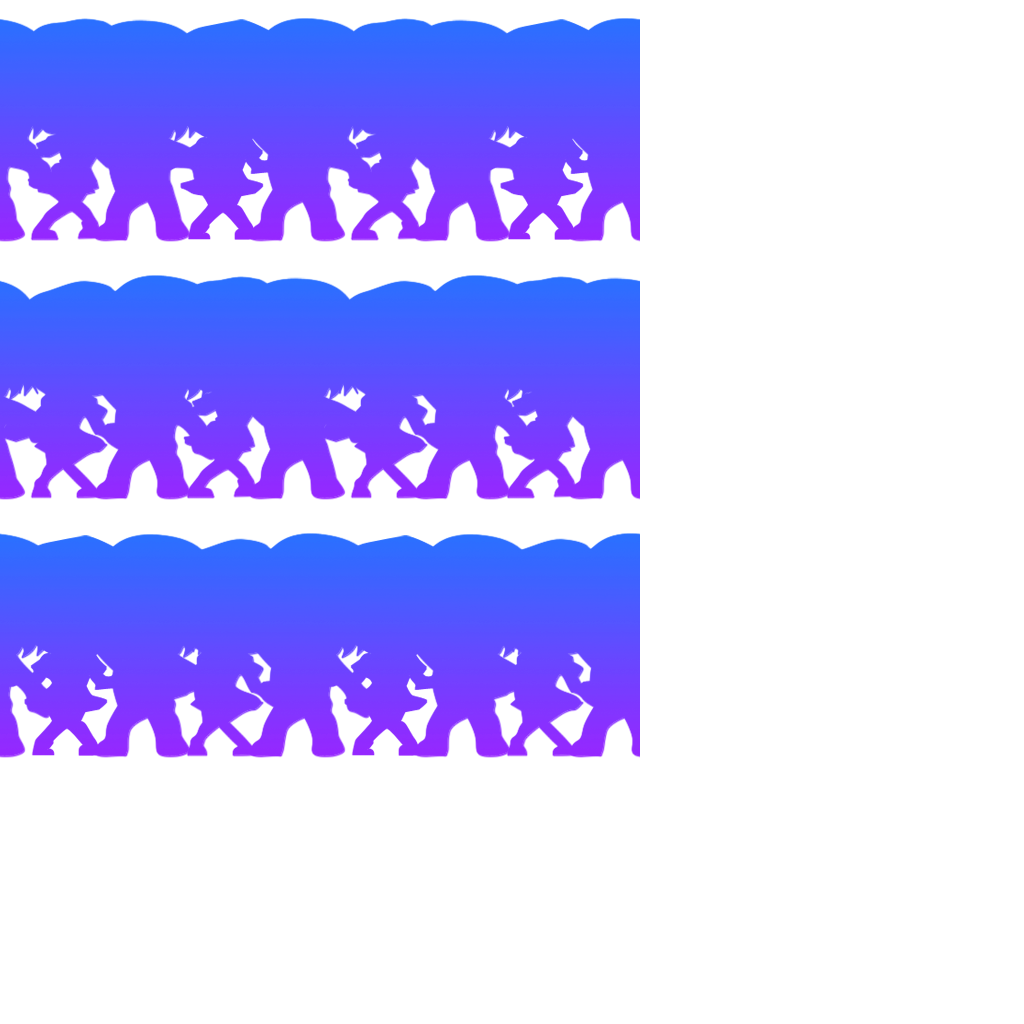
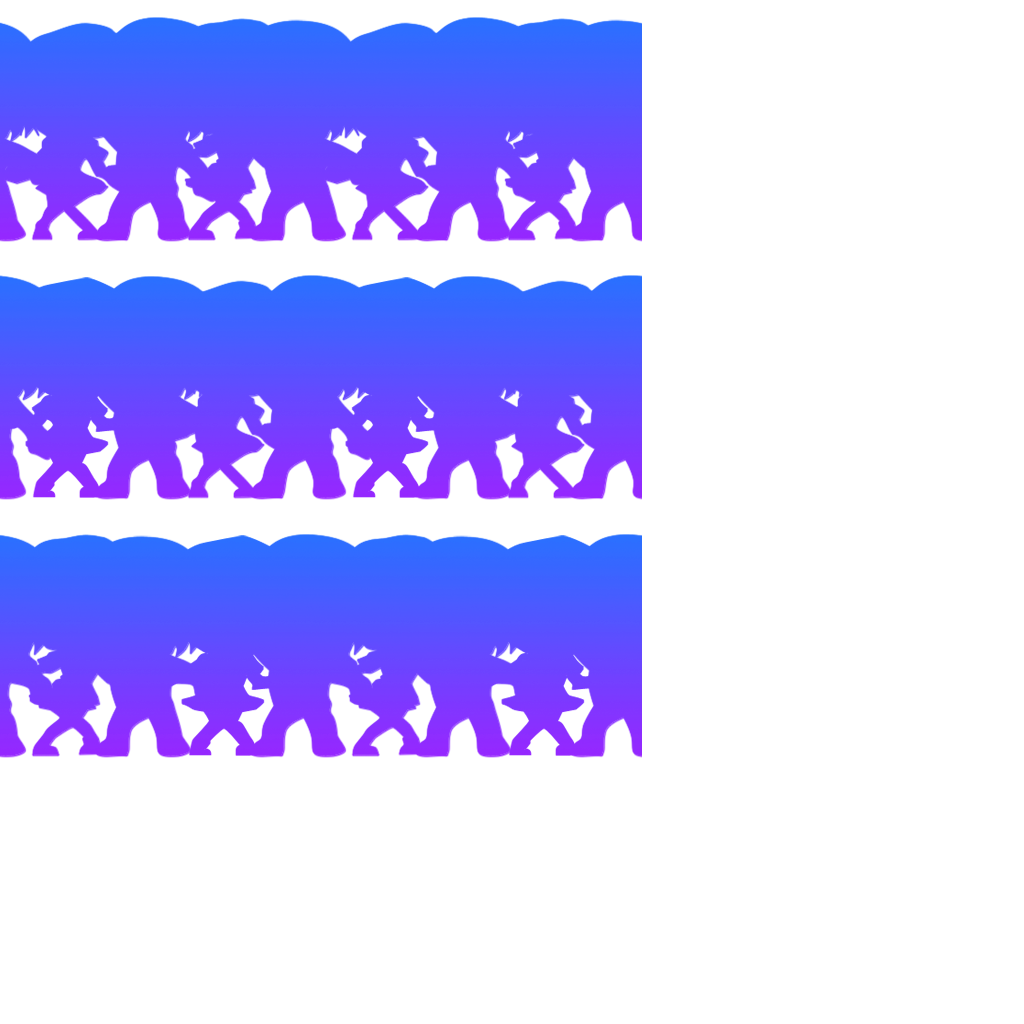
tweaked the lights, added new light graphics.

diff --git a/Clay/GameObject.m b/Clay/GameObject.m
@@ -86,7 +86,7 @@
 {
     if ([type isEqualToString:@"lighting"]) {
         _rotateLights = true;
-        _angle = 0;
+        _angle = rand() % 50 - 25;
         _direction = 1;
         _isActive = true;
     }
@@ -259,16 +259,18 @@
 -(void) updateLights:(float)dt
 {
     if (_rotateLights) {
+        float maxAngle = 25.0f;
+        float rate = 90.0f * dt;
         if (_direction == 1) {
-            _angle += dt;
-            if (_angle >= 90.0f) {
-                _angle = 90.0f;
+            _angle += rate;
+            if (_angle >= maxAngle) {
+                _angle = maxAngle;
                 _direction = -1;
             }
         } else {
-            _angle -= dt;
-            if (_angle <= -90.0f) {
-                _angle = -90.0f;
+            _angle -= rate;
+            if (_angle <= -maxAngle) {
+                _angle = -maxAngle;
                 _direction = 1;
             }
         }
